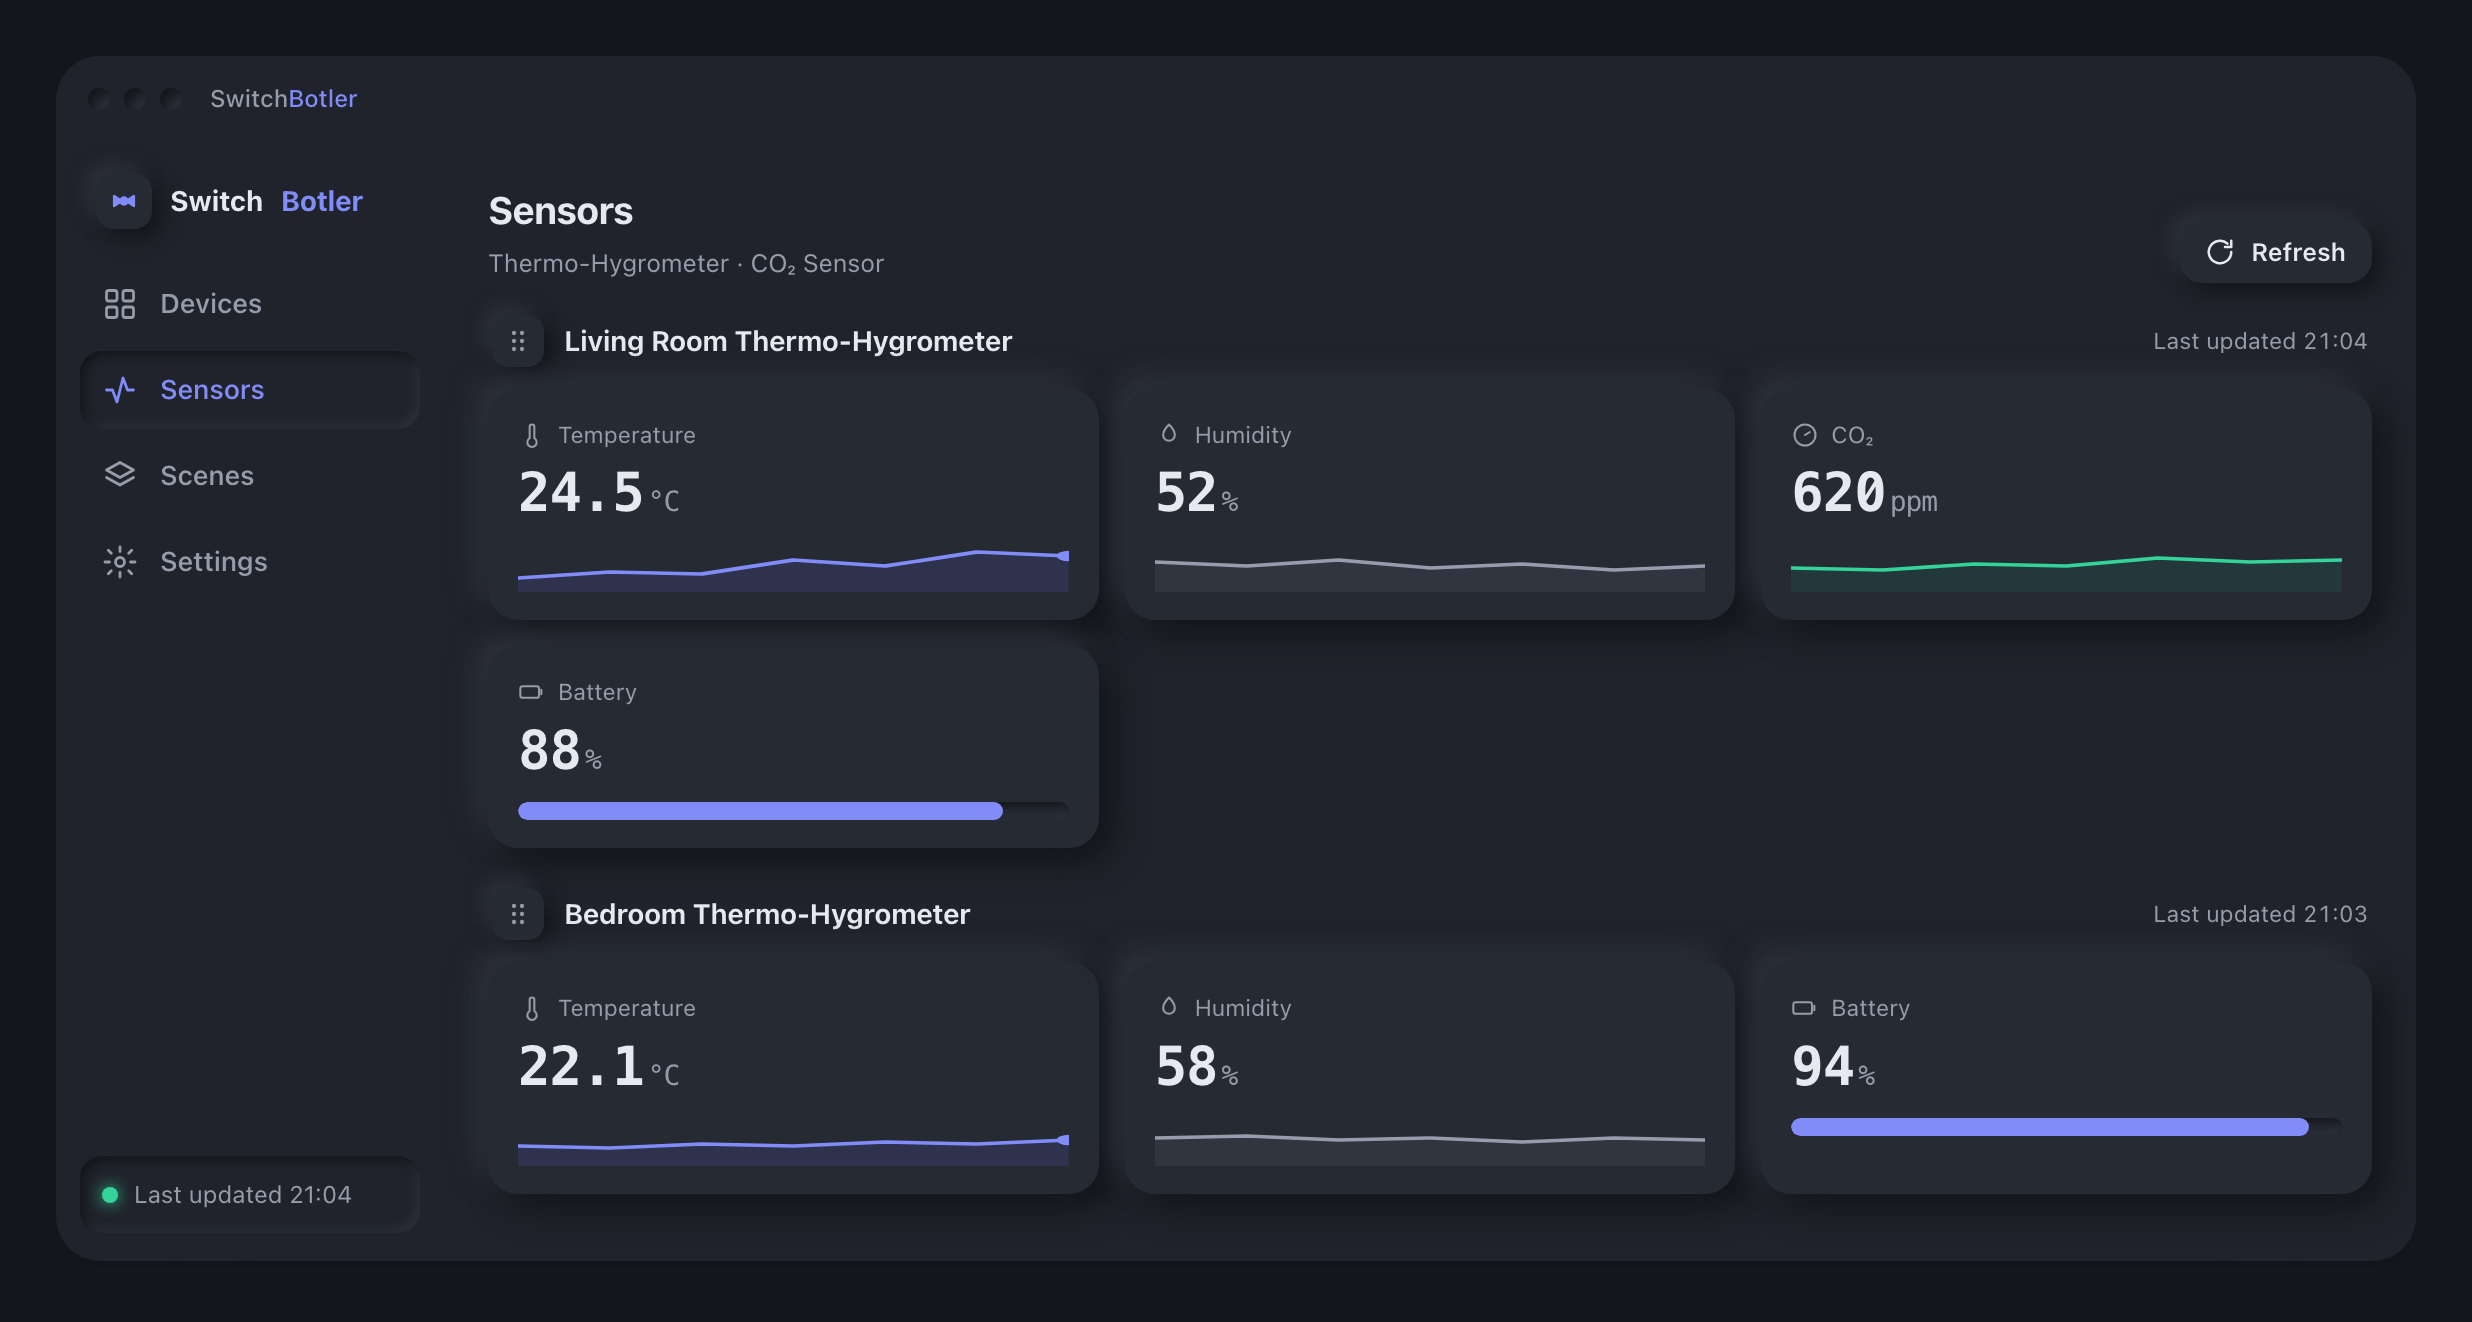
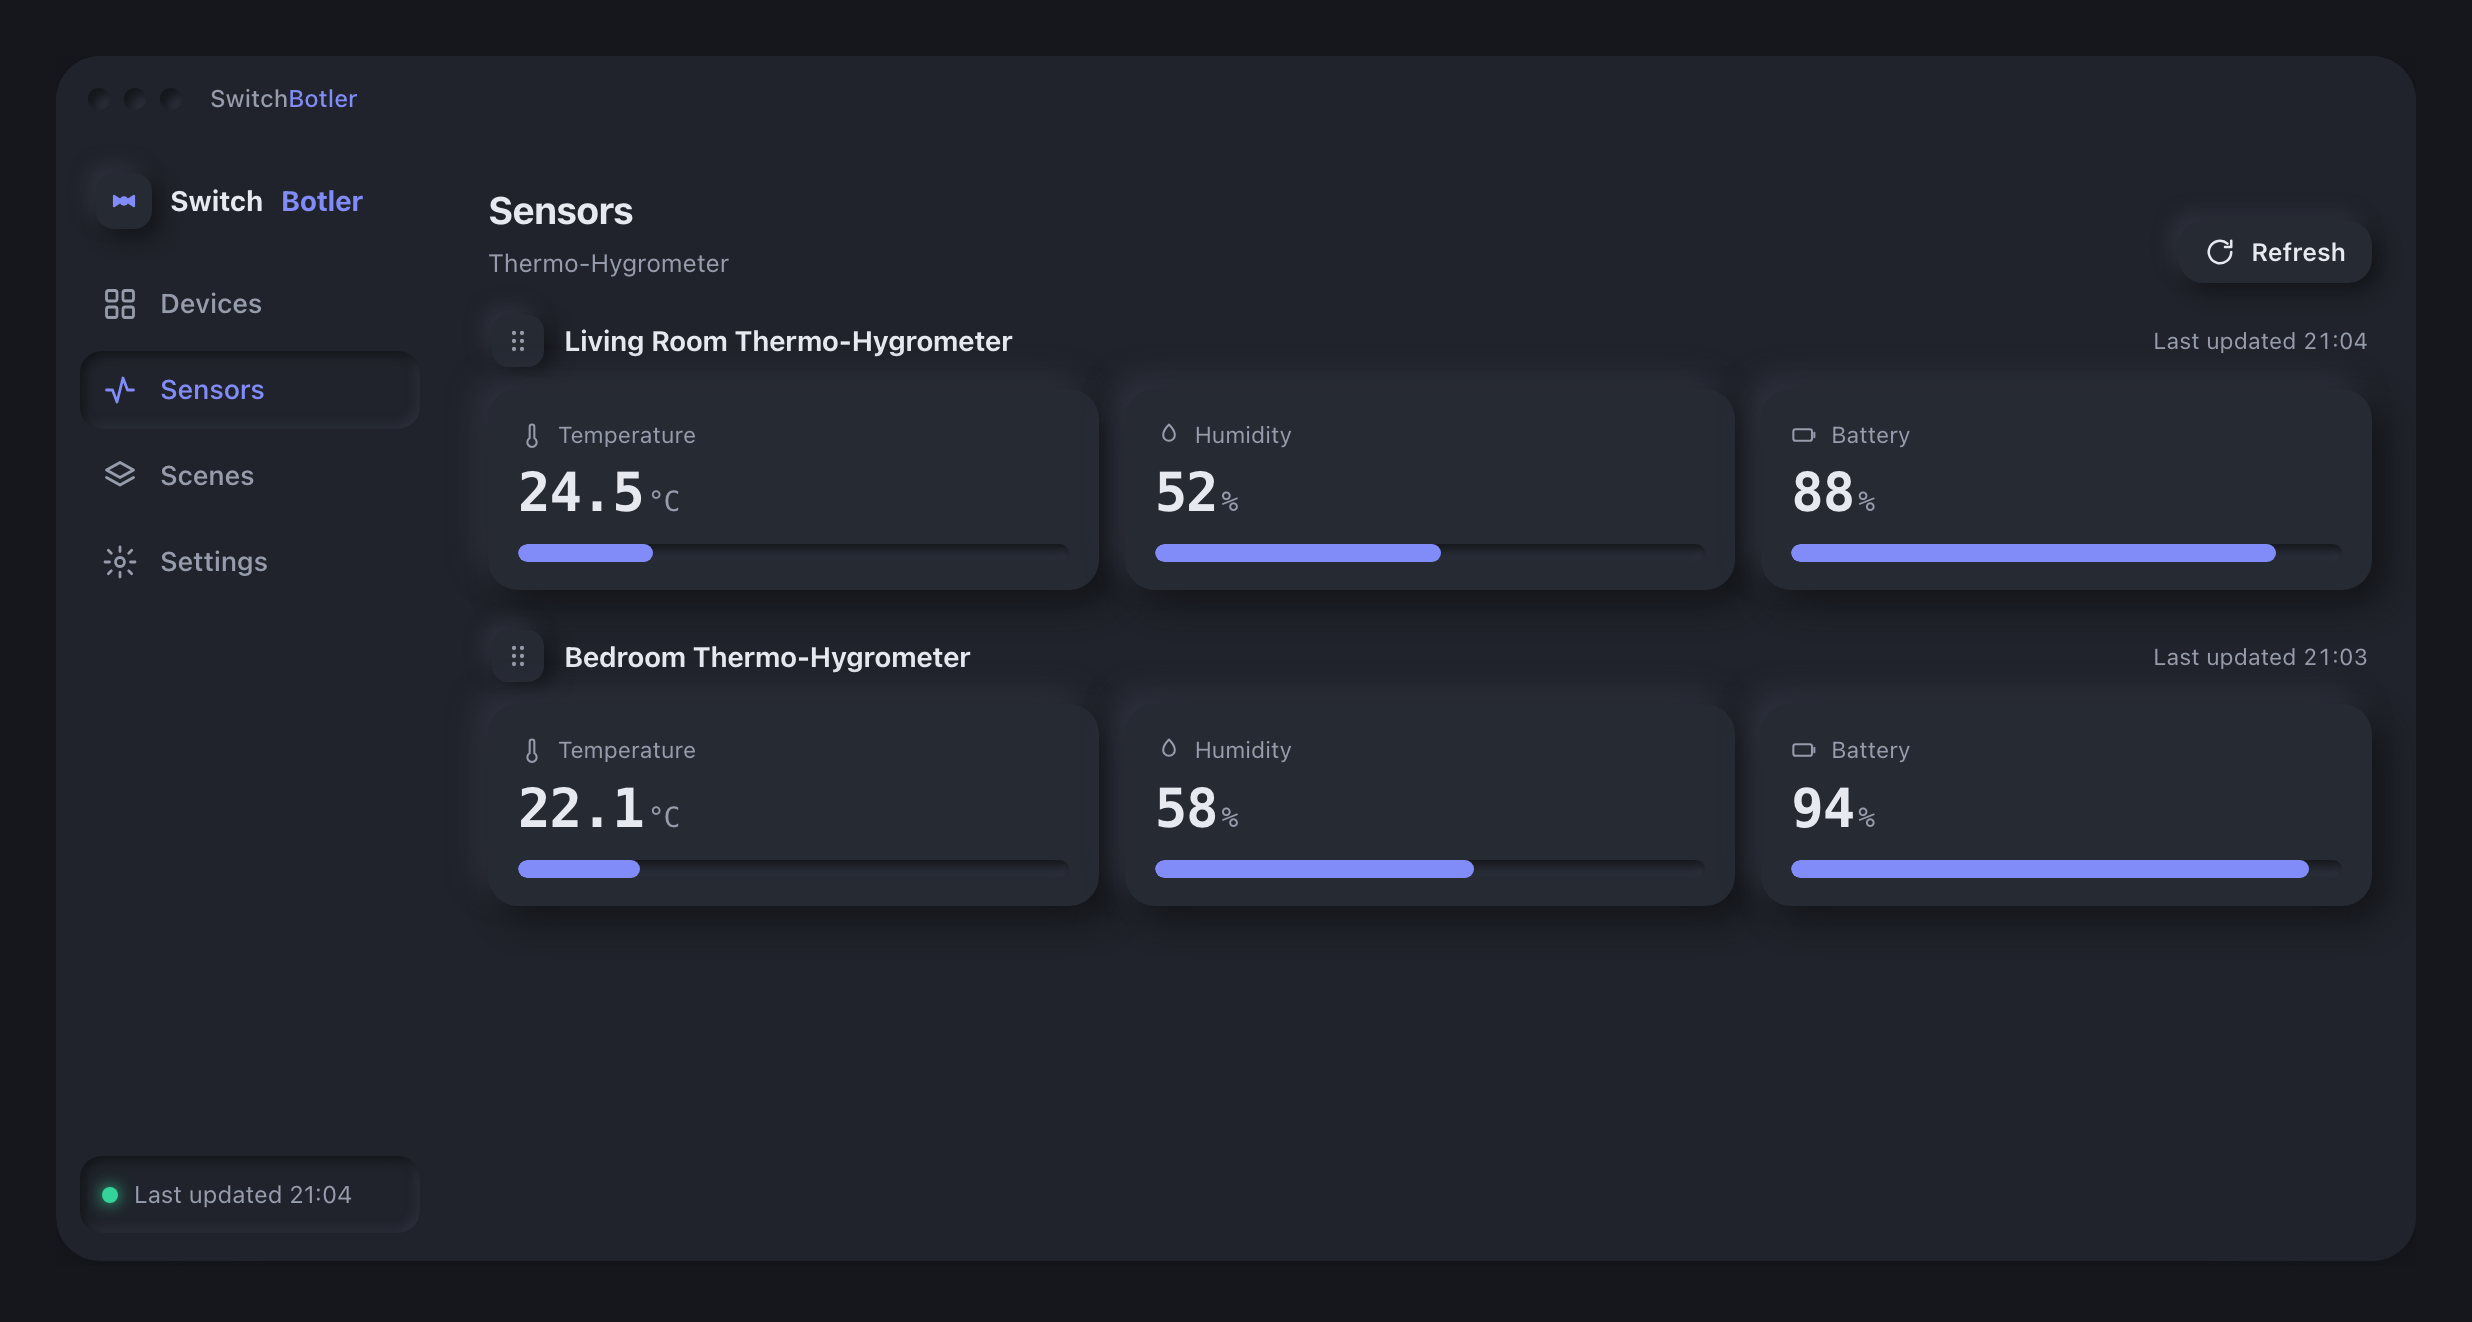
docs(mockup): センサー画面を実アプリに合わせバー表記に修正・CO₂ を削除 (#51)
実アプリのセンサー計測は温度/湿度/バッテリーのみで、いずれも BarMeter
（0-100% バー）で描画する（build_sensor_readings）。API は単一時点値しか
返さず履歴を持てないため、モックの折れ線（spark）は実装と食い違っていた。

- 温度/湿度の折れ線スパークラインを bar-meter に置換（値をそのまま % に）
- 実アプリが出さない CO₂ カードと見出しの CO₂ 記載を削除
- README 掲載のセンサースクショ（ダーク）を再生成
- index.html / index.en.html の両方を修正

Claude-Session: https://claude.ai/code/session_014HCxwdvf5jy6ZFJxLsid94

diff --git a/docs/mockup/index.en.html b/docs/mockup/index.en.html
@@ -386,7 +386,7 @@
         <div class="status"><span class="dot"></span>Last updated 21:04</div>
       </aside>
       <main class="main">
-        <div class="head"><div><h3>Sensors</h3><div class="sub">Thermo-Hygrometer · CO₂ Sensor</div></div><button class="btn sm"><svg viewBox="0 0 24 24" fill="none" stroke="currentColor" stroke-width="2" stroke-linecap="round" stroke-linejoin="round"><path d="M21 12a9 9 0 1 1-3-6.7M21 3v5h-5"/></svg>Refresh</button></div>
+        <div class="head"><div><h3>Sensors</h3><div class="sub">Thermo-Hygrometer</div></div><button class="btn sm"><svg viewBox="0 0 24 24" fill="none" stroke="currentColor" stroke-width="2" stroke-linecap="round" stroke-linejoin="round"><path d="M21 12a9 9 0 1 1-3-6.7M21 3v5h-5"/></svg>Refresh</button></div>
         <div class="sensor-list" id="sensorList">
           <section class="sensor-sec" draggable="true" aria-label="Living Room Thermo-Hygrometer (drag to reorder)">
             <div class="sh">
@@ -398,17 +398,12 @@
               <div class="stat">
                 <div class="lab"><svg viewBox="0 0 24 24" fill="none" stroke="currentColor" stroke-width="1.75" stroke-linecap="round" stroke-linejoin="round"><path d="M14 14.76V5a2 2 0 1 0-4 0v9.76a4 4 0 1 0 4 0Z"/></svg>Temperature</div>
                 <div class="big">24.5<span class="u">°C</span></div>
-                <svg class="spark" viewBox="0 0 120 26" preserveAspectRatio="none" aria-hidden="true"><path d="M0,19 L20,16 L40,17 L60,10 L80,13 L100,6 L120,8 V26 H0 Z" fill="rgba(99,102,241,.14)"/><polyline points="0,19 20,16 40,17 60,10 80,13 100,6 120,8" fill="none" stroke="var(--accent)" stroke-width="1.75" stroke-linecap="round" stroke-linejoin="round"/><circle cx="120" cy="8" r="2.6" fill="var(--accent)"/></svg>
+                <div class="bar-meter"><i style="width:24.5%"></i></div>
               </div>
               <div class="stat">
                 <div class="lab"><svg viewBox="0 0 24 24" fill="none" stroke="currentColor" stroke-width="1.75" stroke-linecap="round" stroke-linejoin="round"><path d="M12 3s5 5 5 9a5 5 0 0 1-10 0c0-4 5-9 5-9Z"/></svg>Humidity</div>
                 <div class="big">52<span class="u">%</span></div>
-                <svg class="spark" viewBox="0 0 120 26" preserveAspectRatio="none" aria-hidden="true"><path d="M0,11 L20,13 L40,10 L60,14 L80,12 L100,15 L120,13 V26 H0 Z" fill="rgba(120,132,151,.13)"/><polyline points="0,11 20,13 40,10 60,14 80,12 100,15 120,13" fill="none" stroke="var(--muted)" stroke-width="1.75" stroke-linecap="round" stroke-linejoin="round"/></svg>
-              </div>
-              <div class="stat">
-                <div class="lab"><svg viewBox="0 0 24 24" fill="none" stroke="currentColor" stroke-width="1.75" stroke-linecap="round" stroke-linejoin="round"><circle cx="12" cy="12" r="9"/><path d="M12 12l4-2.5"/></svg>CO₂</div>
-                <div class="big">620<span class="u">ppm</span></div>
-                <svg class="spark" viewBox="0 0 120 26" preserveAspectRatio="none" aria-hidden="true"><path d="M0,14 L20,15 L40,12 L60,13 L80,9 L100,11 L120,10 V26 H0 Z" fill="rgba(14,158,118,.13)"/><polyline points="0,14 20,15 40,12 60,13 80,9 100,11 120,10" fill="none" stroke="var(--ok)" stroke-width="1.75" stroke-linecap="round" stroke-linejoin="round"/></svg>
+                <div class="bar-meter"><i style="width:52%"></i></div>
               </div>
               <div class="stat">
                 <div class="lab"><svg viewBox="0 0 24 24" fill="none" stroke="currentColor" stroke-width="1.75" stroke-linecap="round" stroke-linejoin="round"><rect x="2" y="7" width="16" height="10" rx="2"/><path d="M20 10v4"/></svg>Battery</div>
@@ -427,12 +422,12 @@
               <div class="stat">
                 <div class="lab"><svg viewBox="0 0 24 24" fill="none" stroke="currentColor" stroke-width="1.75" stroke-linecap="round" stroke-linejoin="round"><path d="M14 14.76V5a2 2 0 1 0-4 0v9.76a4 4 0 1 0 4 0Z"/></svg>Temperature</div>
                 <div class="big">22.1<span class="u">°C</span></div>
-                <svg class="spark" viewBox="0 0 120 26" preserveAspectRatio="none" aria-hidden="true"><path d="M0,16 L20,17 L40,15 L60,16 L80,14 L100,15 L120,13 V26 H0 Z" fill="rgba(99,102,241,.14)"/><polyline points="0,16 20,17 40,15 60,16 80,14 100,15 120,13" fill="none" stroke="var(--accent)" stroke-width="1.75" stroke-linecap="round" stroke-linejoin="round"/><circle cx="120" cy="13" r="2.6" fill="var(--accent)"/></svg>
+                <div class="bar-meter"><i style="width:22.1%"></i></div>
               </div>
               <div class="stat">
                 <div class="lab"><svg viewBox="0 0 24 24" fill="none" stroke="currentColor" stroke-width="1.75" stroke-linecap="round" stroke-linejoin="round"><path d="M12 3s5 5 5 9a5 5 0 0 1-10 0c0-4 5-9 5-9Z"/></svg>Humidity</div>
                 <div class="big">58<span class="u">%</span></div>
-                <svg class="spark" viewBox="0 0 120 26" preserveAspectRatio="none" aria-hidden="true"><path d="M0,12 L20,11 L40,13 L60,12 L80,14 L100,12 L120,13 V26 H0 Z" fill="rgba(120,132,151,.13)"/><polyline points="0,12 20,11 40,13 60,12 80,14 100,12 120,13" fill="none" stroke="var(--muted)" stroke-width="1.75" stroke-linecap="round" stroke-linejoin="round"/></svg>
+                <div class="bar-meter"><i style="width:58%"></i></div>
               </div>
               <div class="stat">
                 <div class="lab"><svg viewBox="0 0 24 24" fill="none" stroke="currentColor" stroke-width="1.75" stroke-linecap="round" stroke-linejoin="round"><rect x="2" y="7" width="16" height="10" rx="2"/><path d="M20 10v4"/></svg>Battery</div>

diff --git a/docs/mockup/index.html b/docs/mockup/index.html
@@ -386,7 +386,7 @@
         <div class="status"><span class="dot"></span>最終更新 21:04</div>
       </aside>
       <main class="main">
-        <div class="head"><div><h3>センサー</h3><div class="sub">温湿度計・CO₂ センサー</div></div><button class="btn sm"><svg viewBox="0 0 24 24" fill="none" stroke="currentColor" stroke-width="2" stroke-linecap="round" stroke-linejoin="round"><path d="M21 12a9 9 0 1 1-3-6.7M21 3v5h-5"/></svg>更新</button></div>
+        <div class="head"><div><h3>センサー</h3><div class="sub">温湿度計</div></div><button class="btn sm"><svg viewBox="0 0 24 24" fill="none" stroke="currentColor" stroke-width="2" stroke-linecap="round" stroke-linejoin="round"><path d="M21 12a9 9 0 1 1-3-6.7M21 3v5h-5"/></svg>更新</button></div>
         <div class="sensor-list" id="sensorList">
           <section class="sensor-sec" draggable="true" aria-label="リビングの温湿度計（ドラッグで並べ替え）">
             <div class="sh">
@@ -398,17 +398,12 @@
               <div class="stat">
                 <div class="lab"><svg viewBox="0 0 24 24" fill="none" stroke="currentColor" stroke-width="1.75" stroke-linecap="round" stroke-linejoin="round"><path d="M14 14.76V5a2 2 0 1 0-4 0v9.76a4 4 0 1 0 4 0Z"/></svg>温度</div>
                 <div class="big">24.5<span class="u">°C</span></div>
-                <svg class="spark" viewBox="0 0 120 26" preserveAspectRatio="none" aria-hidden="true"><path d="M0,19 L20,16 L40,17 L60,10 L80,13 L100,6 L120,8 V26 H0 Z" fill="rgba(99,102,241,.14)"/><polyline points="0,19 20,16 40,17 60,10 80,13 100,6 120,8" fill="none" stroke="var(--accent)" stroke-width="1.75" stroke-linecap="round" stroke-linejoin="round"/><circle cx="120" cy="8" r="2.6" fill="var(--accent)"/></svg>
+                <div class="bar-meter"><i style="width:24.5%"></i></div>
               </div>
               <div class="stat">
                 <div class="lab"><svg viewBox="0 0 24 24" fill="none" stroke="currentColor" stroke-width="1.75" stroke-linecap="round" stroke-linejoin="round"><path d="M12 3s5 5 5 9a5 5 0 0 1-10 0c0-4 5-9 5-9Z"/></svg>湿度</div>
                 <div class="big">52<span class="u">%</span></div>
-                <svg class="spark" viewBox="0 0 120 26" preserveAspectRatio="none" aria-hidden="true"><path d="M0,11 L20,13 L40,10 L60,14 L80,12 L100,15 L120,13 V26 H0 Z" fill="rgba(120,132,151,.13)"/><polyline points="0,11 20,13 40,10 60,14 80,12 100,15 120,13" fill="none" stroke="var(--muted)" stroke-width="1.75" stroke-linecap="round" stroke-linejoin="round"/></svg>
-              </div>
-              <div class="stat">
-                <div class="lab"><svg viewBox="0 0 24 24" fill="none" stroke="currentColor" stroke-width="1.75" stroke-linecap="round" stroke-linejoin="round"><circle cx="12" cy="12" r="9"/><path d="M12 12l4-2.5"/></svg>CO₂</div>
-                <div class="big">620<span class="u">ppm</span></div>
-                <svg class="spark" viewBox="0 0 120 26" preserveAspectRatio="none" aria-hidden="true"><path d="M0,14 L20,15 L40,12 L60,13 L80,9 L100,11 L120,10 V26 H0 Z" fill="rgba(14,158,118,.13)"/><polyline points="0,14 20,15 40,12 60,13 80,9 100,11 120,10" fill="none" stroke="var(--ok)" stroke-width="1.75" stroke-linecap="round" stroke-linejoin="round"/></svg>
+                <div class="bar-meter"><i style="width:52%"></i></div>
               </div>
               <div class="stat">
                 <div class="lab"><svg viewBox="0 0 24 24" fill="none" stroke="currentColor" stroke-width="1.75" stroke-linecap="round" stroke-linejoin="round"><rect x="2" y="7" width="16" height="10" rx="2"/><path d="M20 10v4"/></svg>バッテリー</div>
@@ -427,12 +422,12 @@
               <div class="stat">
                 <div class="lab"><svg viewBox="0 0 24 24" fill="none" stroke="currentColor" stroke-width="1.75" stroke-linecap="round" stroke-linejoin="round"><path d="M14 14.76V5a2 2 0 1 0-4 0v9.76a4 4 0 1 0 4 0Z"/></svg>温度</div>
                 <div class="big">22.1<span class="u">°C</span></div>
-                <svg class="spark" viewBox="0 0 120 26" preserveAspectRatio="none" aria-hidden="true"><path d="M0,16 L20,17 L40,15 L60,16 L80,14 L100,15 L120,13 V26 H0 Z" fill="rgba(99,102,241,.14)"/><polyline points="0,16 20,17 40,15 60,16 80,14 100,15 120,13" fill="none" stroke="var(--accent)" stroke-width="1.75" stroke-linecap="round" stroke-linejoin="round"/><circle cx="120" cy="13" r="2.6" fill="var(--accent)"/></svg>
+                <div class="bar-meter"><i style="width:22.1%"></i></div>
               </div>
               <div class="stat">
                 <div class="lab"><svg viewBox="0 0 24 24" fill="none" stroke="currentColor" stroke-width="1.75" stroke-linecap="round" stroke-linejoin="round"><path d="M12 3s5 5 5 9a5 5 0 0 1-10 0c0-4 5-9 5-9Z"/></svg>湿度</div>
                 <div class="big">58<span class="u">%</span></div>
-                <svg class="spark" viewBox="0 0 120 26" preserveAspectRatio="none" aria-hidden="true"><path d="M0,12 L20,11 L40,13 L60,12 L80,14 L100,12 L120,13 V26 H0 Z" fill="rgba(120,132,151,.13)"/><polyline points="0,12 20,11 40,13 60,12 80,14 100,12 120,13" fill="none" stroke="var(--muted)" stroke-width="1.75" stroke-linecap="round" stroke-linejoin="round"/></svg>
+                <div class="bar-meter"><i style="width:58%"></i></div>
               </div>
               <div class="stat">
                 <div class="lab"><svg viewBox="0 0 24 24" fill="none" stroke="currentColor" stroke-width="1.75" stroke-linecap="round" stroke-linejoin="round"><rect x="2" y="7" width="16" height="10" rx="2"/><path d="M20 10v4"/></svg>バッテリー</div>